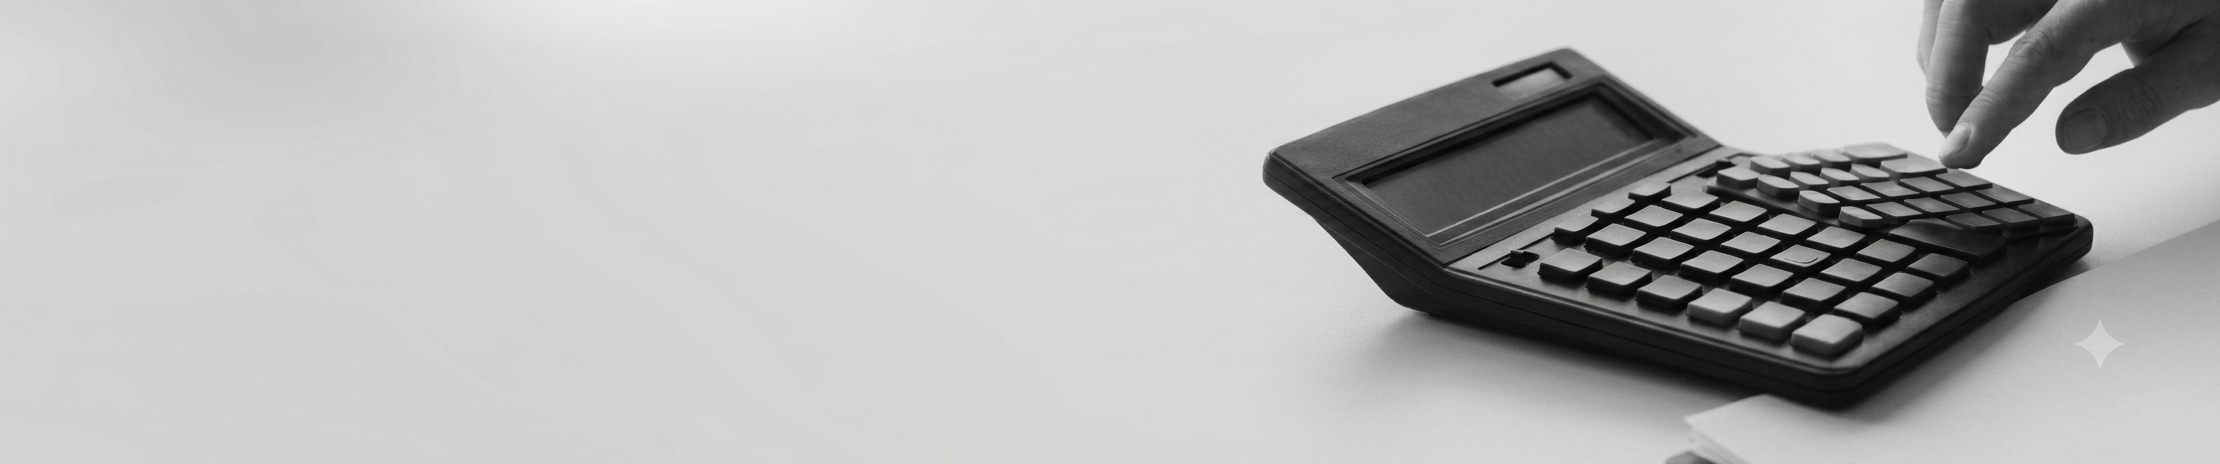
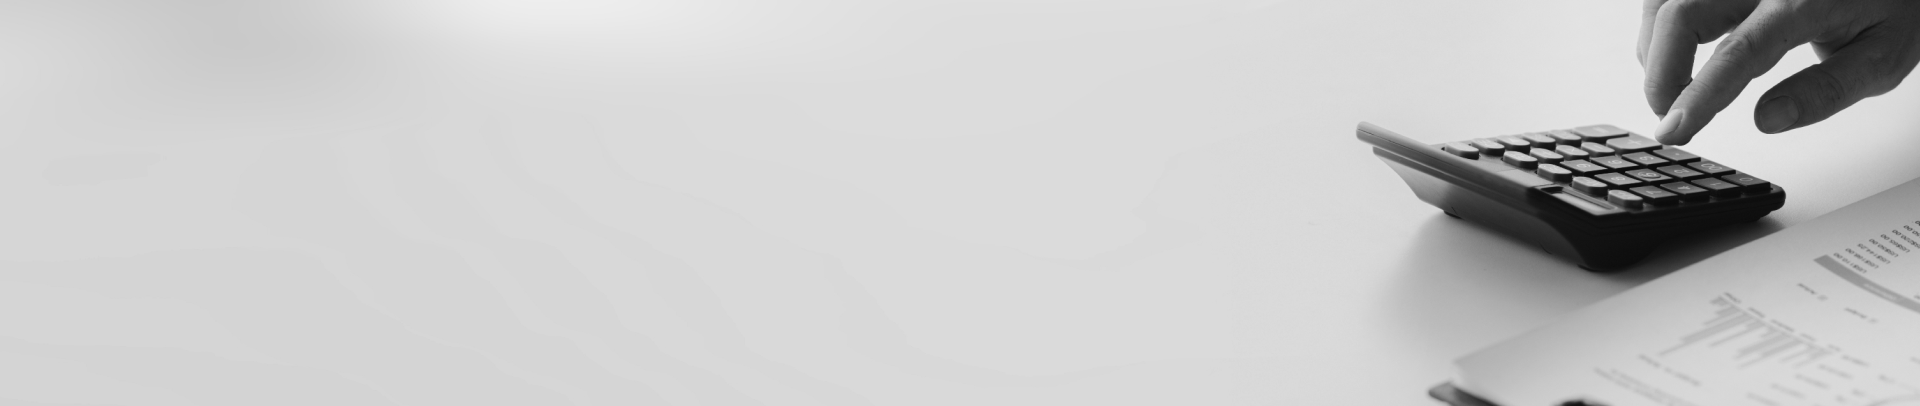
inicial

Changed region(s): [[0.5625, 0.0, 1.0, 0.9458], [0.7188, 0.9458, 0.7812, 1.0], [0.8125, 0.9754, 0.8438, 1.0]]

diff --git a/src/styles/global.css b/src/styles/global.css
@@ -16,6 +16,6 @@
     }
 
     .marg {
-        @apply max-w-[1550px]
+        @apply max-w-[1920px]
     }
 }